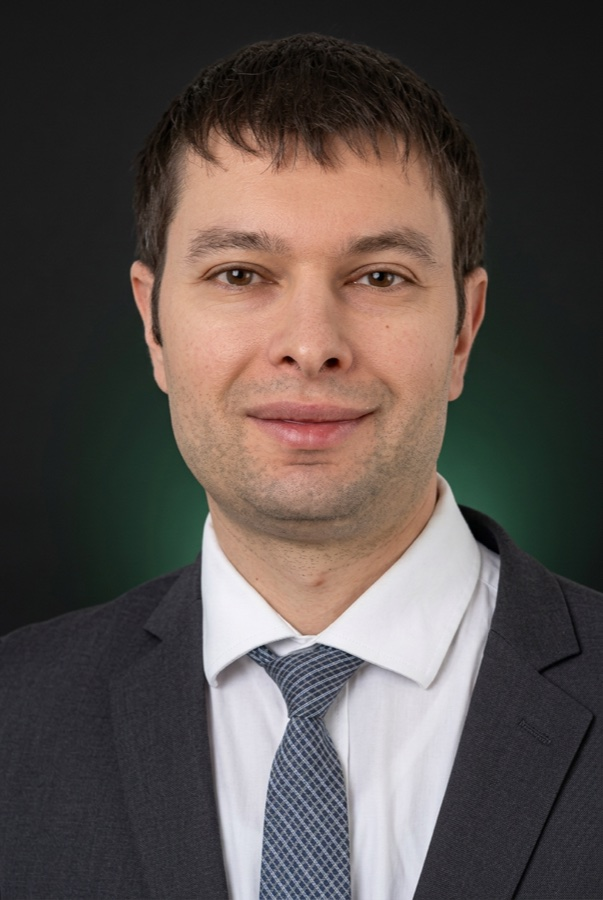
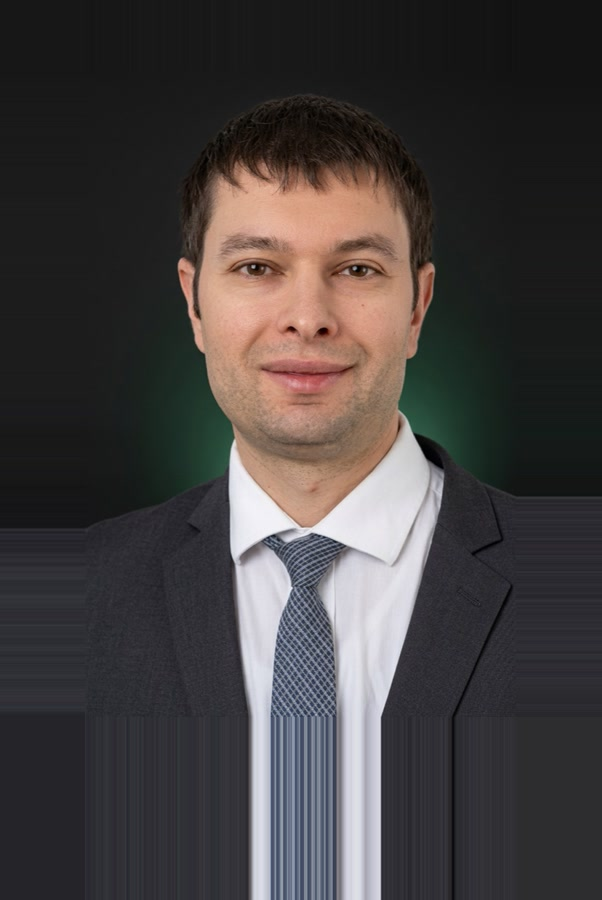
fix(team): zoom out the Jacob Rubelow and Dr. Margolin headshots
Both were shot far tighter than the rest of the team -- their heads ran
off the top of the frame, so they read as looming next to the others.
No object-position value can fix that: focus only pans the crop, it
never scales, which is why the earlier focus: 53 on jr did not help.

So the sources were rescaled instead. Each subject is scaled down inside
its own 602x900 canvas (jr to 80%, em to 72%) and the backdrop extended
outward with fillborders mode=smear, so the dark green vignette
continues rather than showing a frame.

Edge-smear, not a blurred fill: the first attempt used a blown-up blur
of the same photo as the backing, which pulled skin and suit tones into
the margin and left a clearly visible rectangular border. Smearing the
real edge pixels keeps the gradient and introduces no new colour.

focus recomputed against the new files from where the face now sits:
jr 53 -> 16, em 17 -> 8. Both land eyes at 35% of the visible window
with 16.8% and 13.5% background above the head.

Originals preserved in public/assets/team/.orig/. Files also got
smaller: jr 92K -> 36K, em 128K -> 56K.

Verified by rendering the exact plate crop (602x752 at the computed
offset, scaled to the 280x350 box) rather than trusting the preview
pane, which lazy-loads and reports visibilityState hidden.

diff --git a/app/src/routes/team.tsx b/app/src/routes/team.tsx
@@ -37,9 +37,14 @@ type Person = {
    * solved so the eyes land ~35% down the visible window (upper third) while
    * keeping at least 3.5% of background above the top of the head.
    *
-   * That is why they range from 0 to 53: jr is framed low in its source and
-   * needs 53 to lift the face, while yk/cl/ie already sit high and need 0.
    * Re-run the measurement if a photo is replaced — do not copy a neighbour's.
+   *
+   * jr.jpg and em.jpg were also rescaled at the source: both were shot much
+   * tighter than the rest (their heads ran off the top of the frame), and no
+   * object-position can zoom out — it only pans. Each subject was scaled down
+   * inside its own canvas with the backdrop extended by edge-smear, so the
+   * dark green vignette continues rather than showing a seam. Originals are
+   * kept in public/assets/team/.orig/.
    */
   focus?: number;
   role: string;
@@ -76,7 +81,7 @@ const LEADERSHIP: Person[] = [
     name: "Jacob Rubelow",
     init: "JR",
     photo: "/assets/team/jr.jpg",
-    focus: 53,
+    focus: 16,
     role: "Partner & Chief Operating Officer",
     line: "Strategist and partner. Bachelor's in mathematics, magna cum laude, from Touro University; George Washington University Law School; background in intensive Talmudic study. Active EMT and firefighter.",
     loc: "New York",
@@ -134,7 +139,7 @@ const ADVISORS: Person[] = [
     name: "Dr. Edward Margolin, MD, FRCSC, Dipl. ABO",
     init: "EM",
     photo: "/assets/team/em.jpg",
-    focus: 17,
+    focus: 8,
     role: "Healthcare Advisor",
     line: "Professor, University of Toronto — Dept. of Ophthalmology and Visual Sciences; Dept. of Medicine, Division of Neurology. Director, Neuro-Ophthalmology and Strabismus Fellowship.",
     loc: "University of Toronto",

diff --git a/app/src/components/HomeRows.tsx b/app/src/components/HomeRows.tsx
@@ -1286,7 +1286,7 @@ const TEAM = [
     init: "JR",
     photo: "/assets/team/jr.jpg",
     /* face centre measured in this photo, so the circle frames the head */
-    focus: 53,
+    focus: 16,
   },
   {
     name: "Chaim Lieberman",
